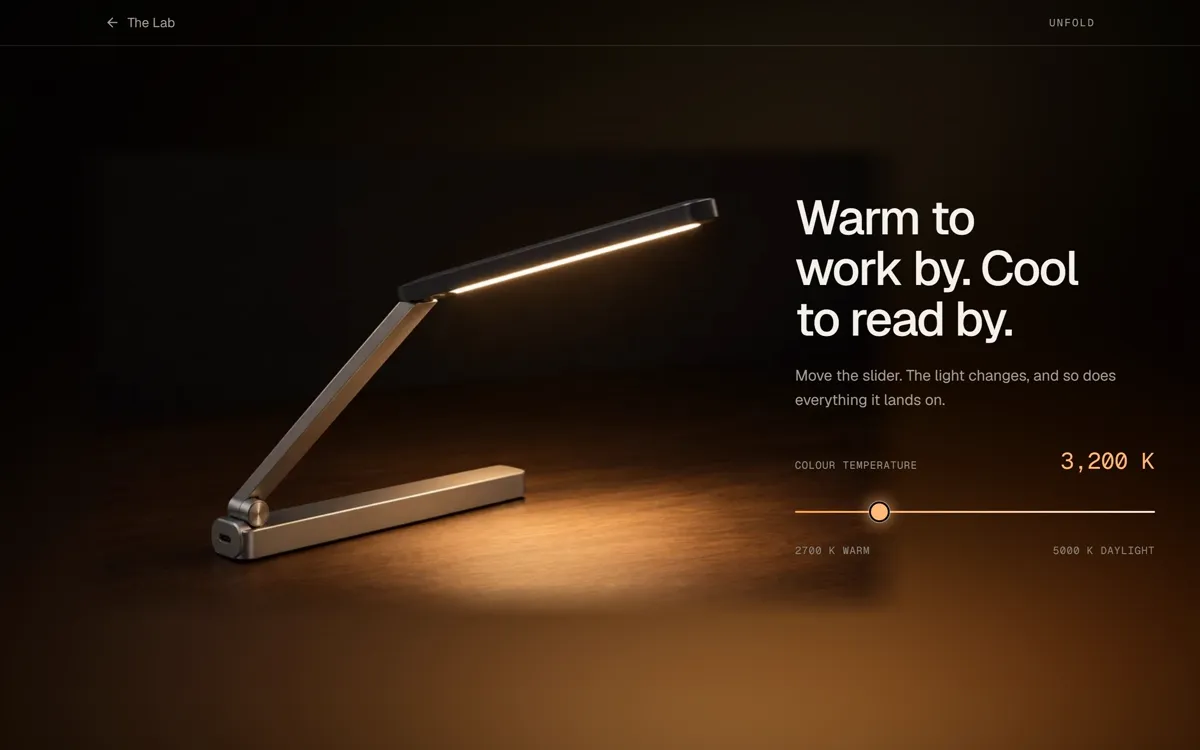
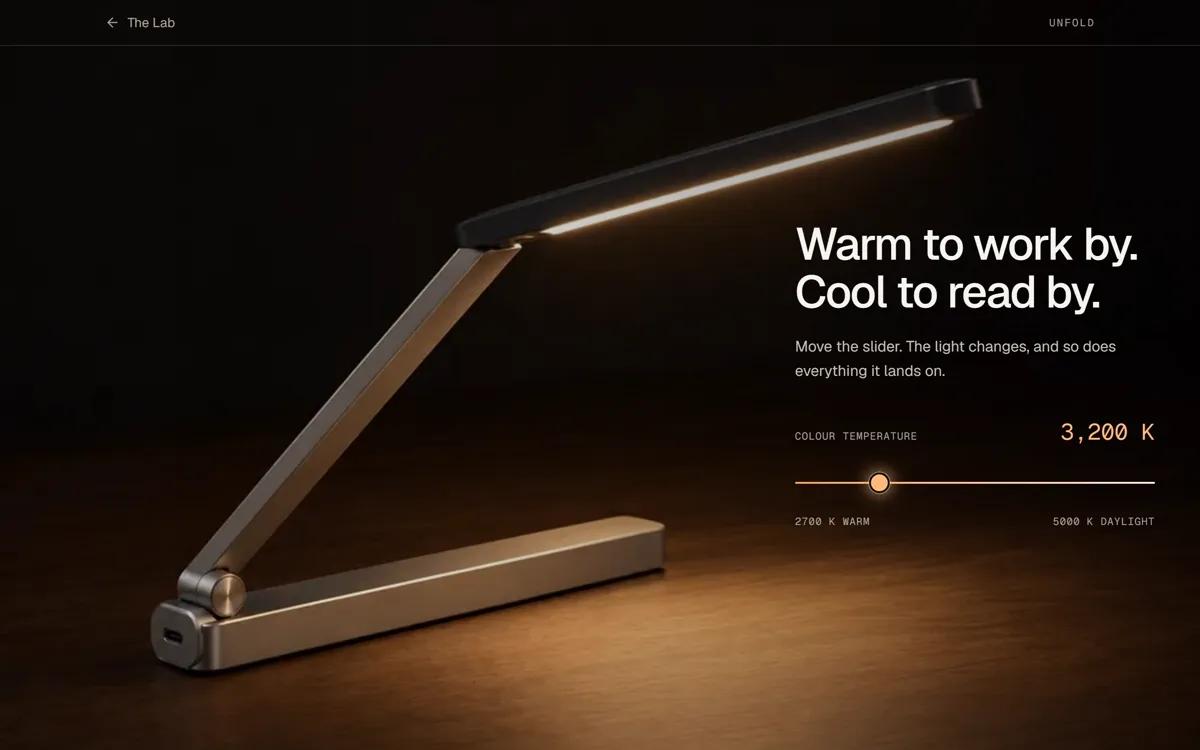
Reshoot the Unfold gallery card against the full-bleed page

Changed region(s): [[0.1233, 0.1227, 1.0, 1.0], [0.7708, 0.092, 0.8325, 0.1533]]

diff --git a/web/src/lib/lab-cards.ts b/web/src/lib/lab-cards.ts
@@ -7,7 +7,7 @@
 
 export const labCardVersions: Record<string, string> = {
   "contour": "953be926",
-  "unfold": "98a9e1b1",
+  "unfold": "28051282",
   "trine": "ac85a815",
   "sable": "422d2181",
   "meridian": "62b55d5b",
